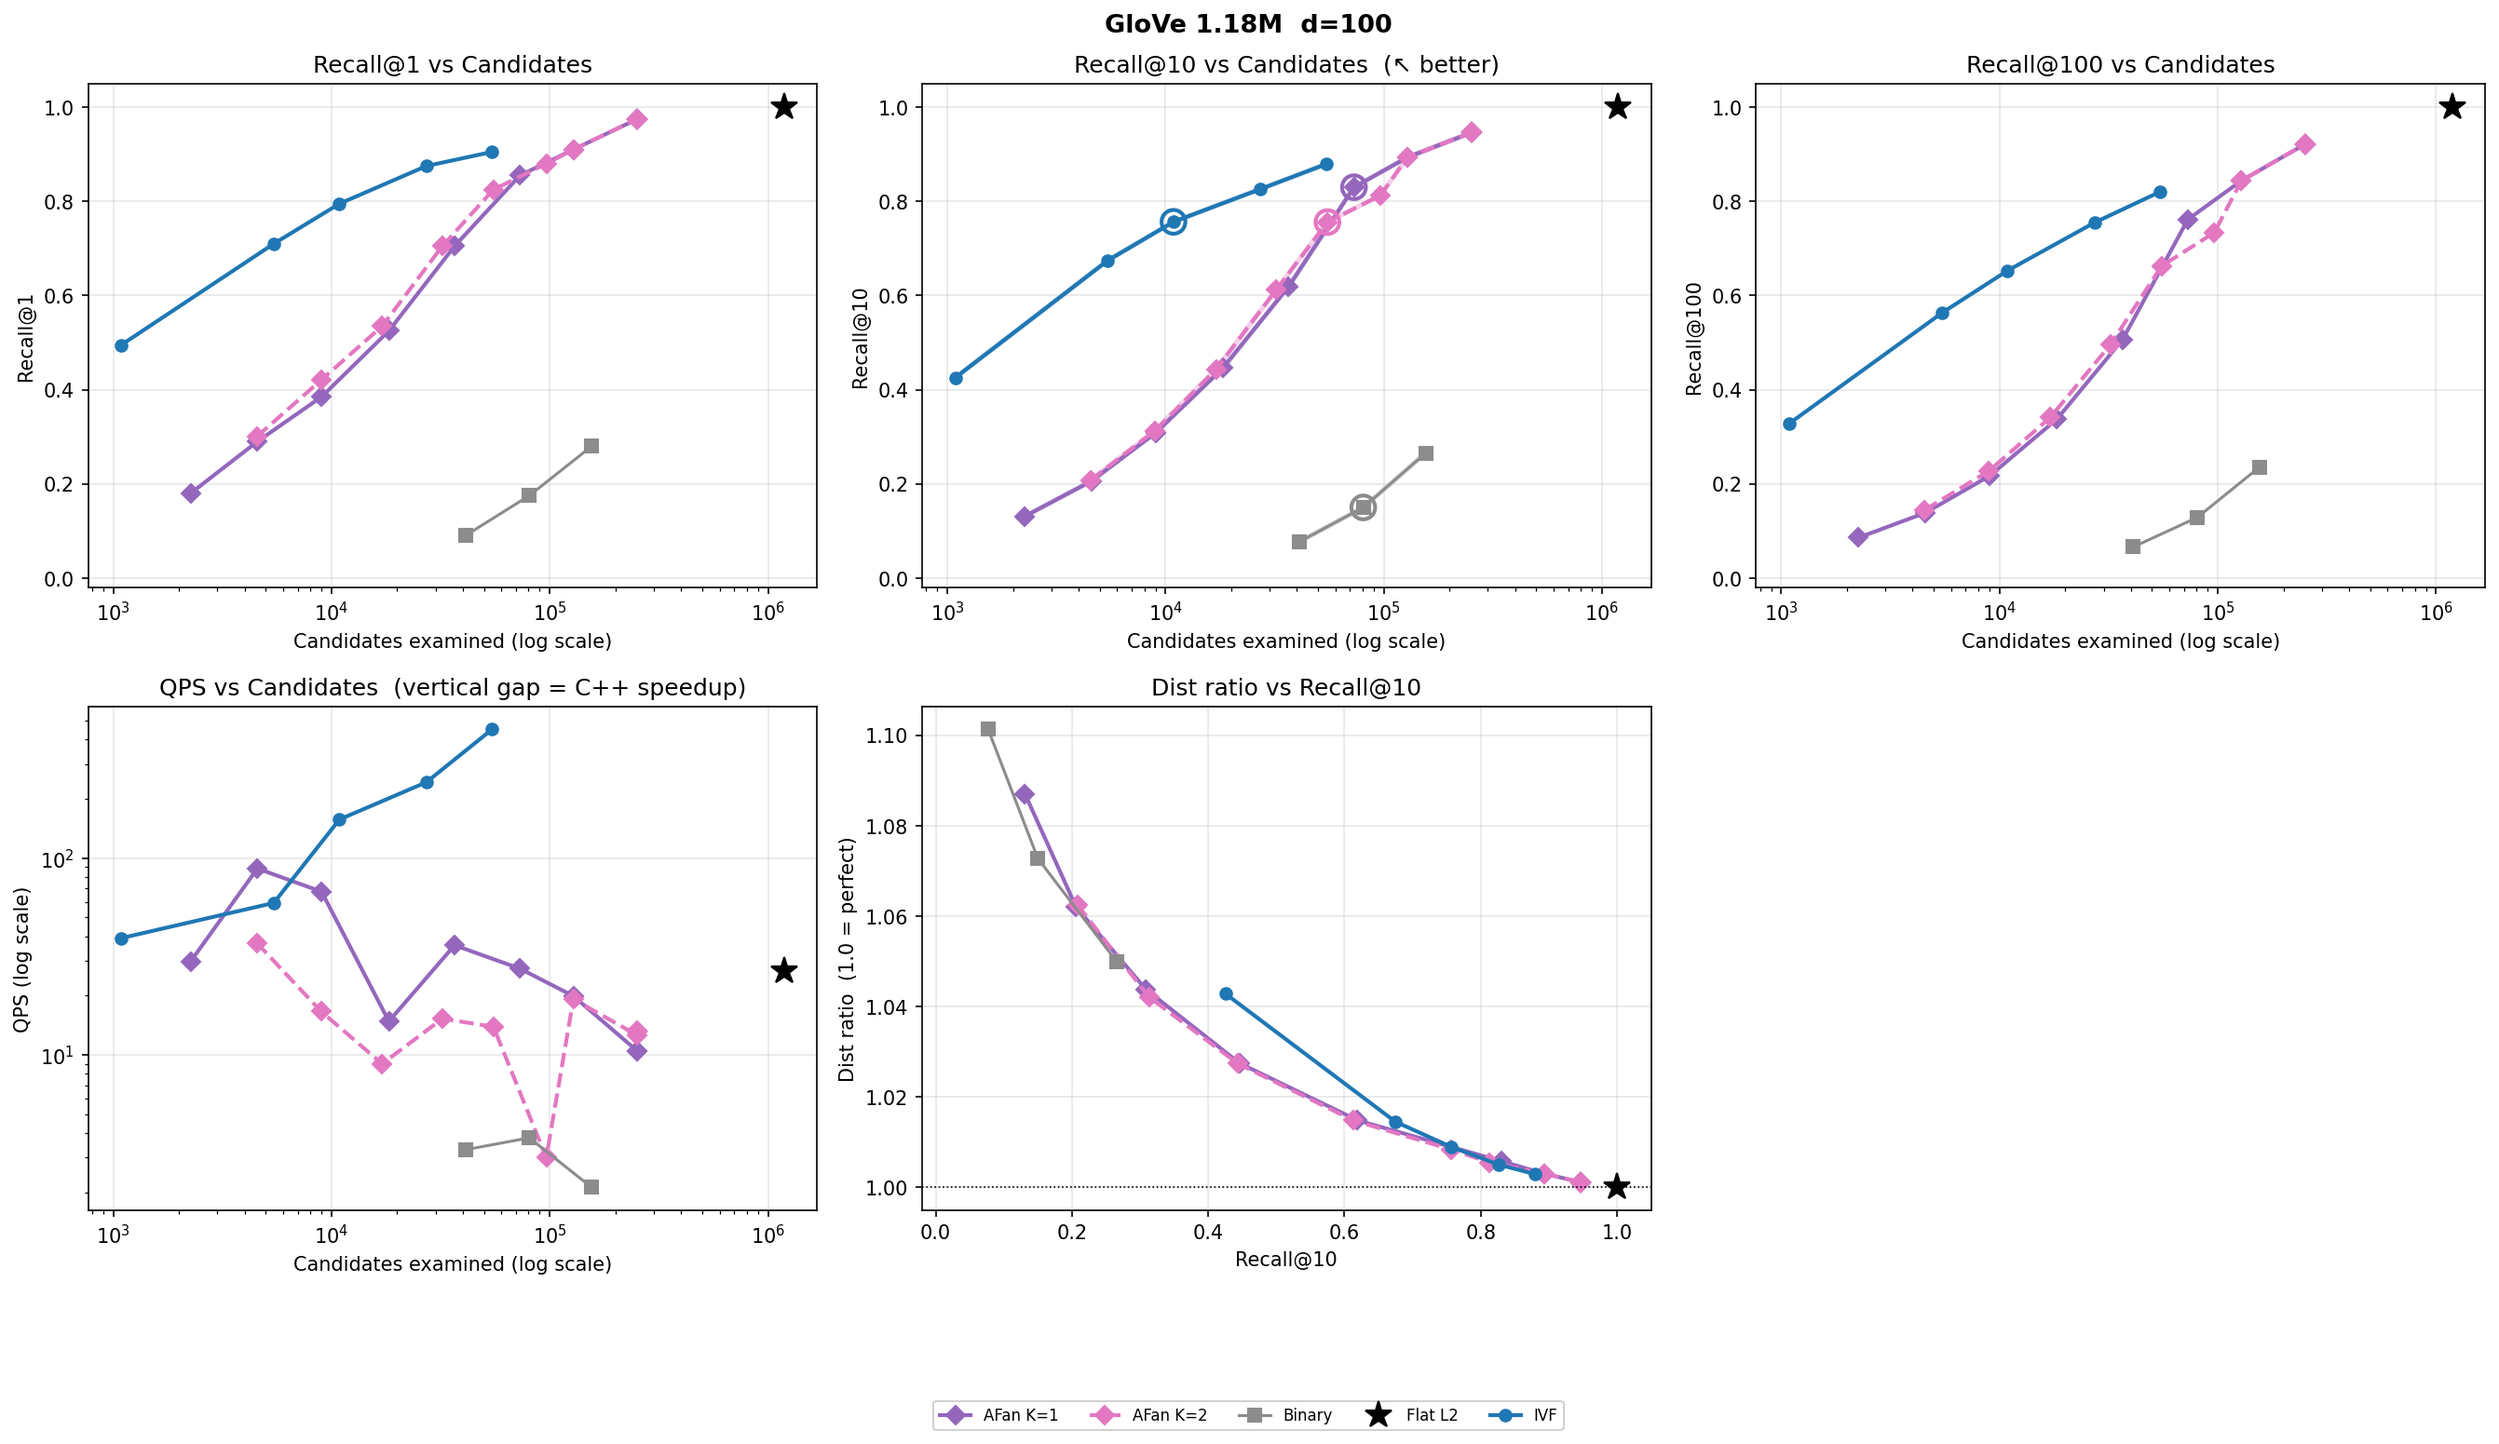
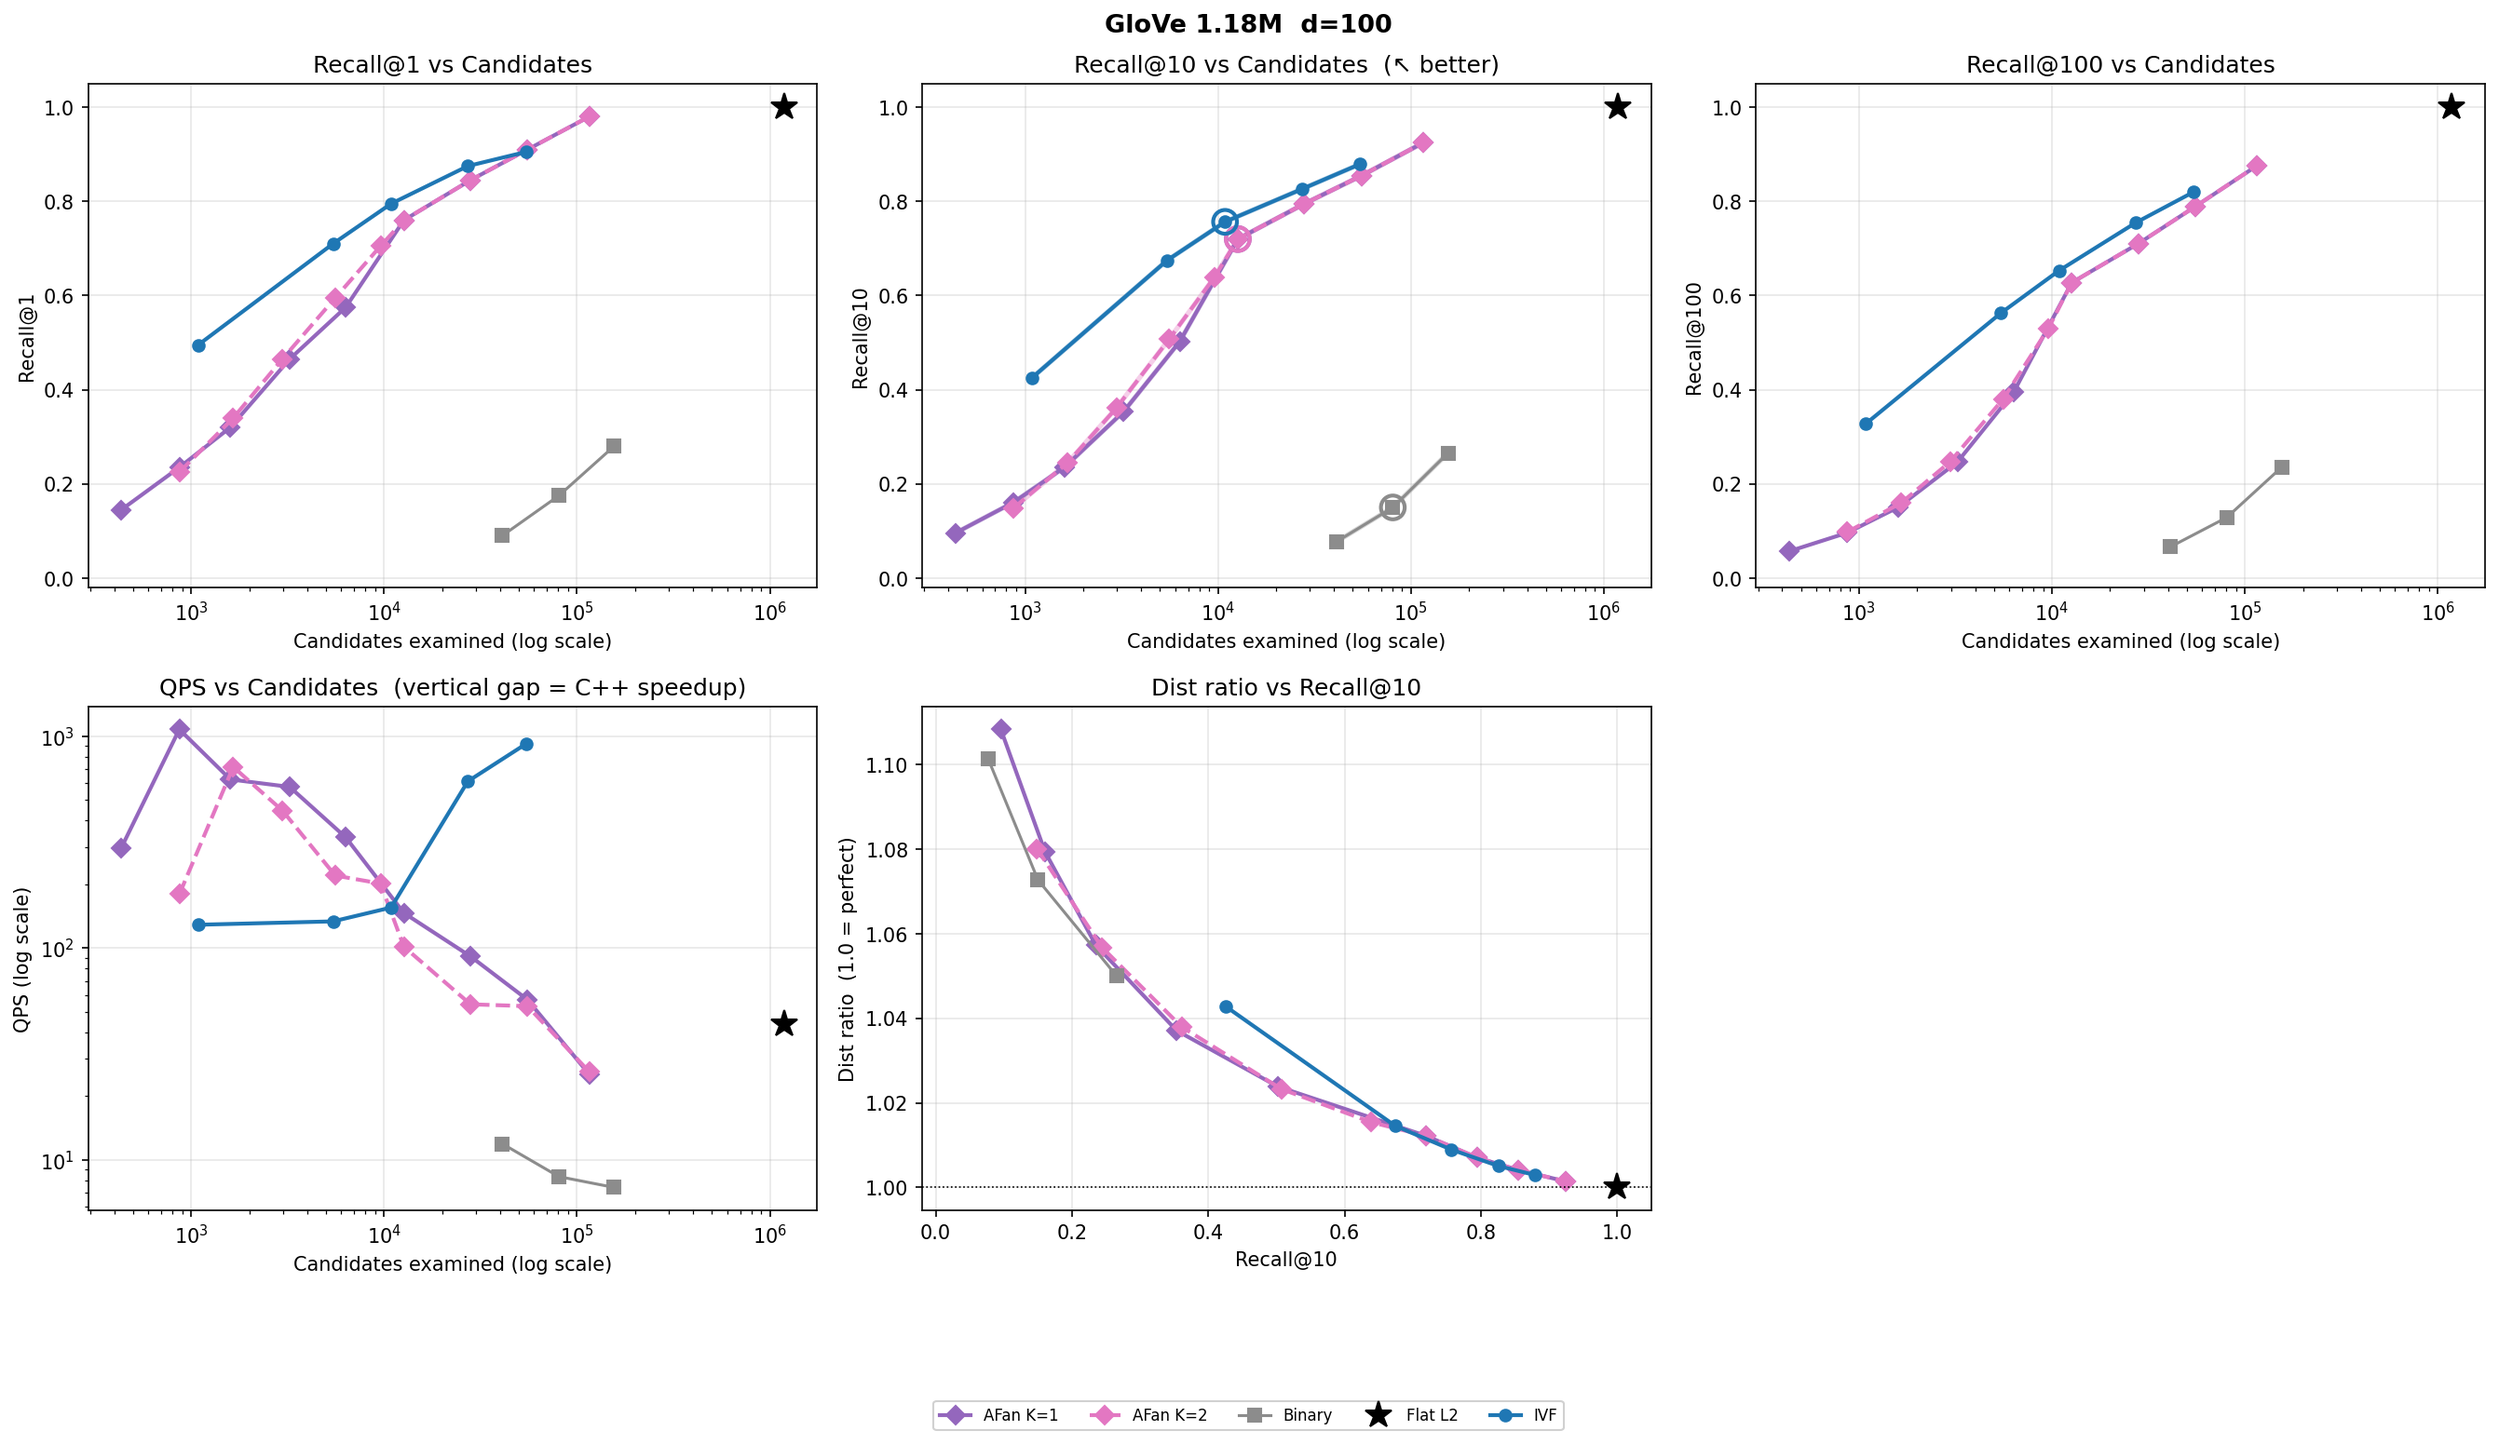
save state commit

diff --git a/ampi/affine_fan.py b/ampi/affine_fan.py
@@ -269,9 +269,93 @@ class AMPIAffineFanIndex:
             return np.zeros(0, dtype=np.int32)
         return np.unique(np.concatenate(parts))
 
-    def query(self, q, k=10, window_size=50, probes=10, fan_probes=2):
-        q     = np.ascontiguousarray(q, dtype=np.float32)
-        cands = self.query_candidates(q, window_size, probes, fan_probes)
+    def query(self, q, k=10, window_size=200, probes=10, fan_probes=2):
+        """Adaptive sorted-projection search.
+
+        Starts with a small window and expands only until the projection lower
+        bound guarantees no unvisited point can improve the current top-k.
+        window_size is a ceiling; most queries stop well before reaching it.
+
+        Stopping condition per cone: there exists an axis l whose window
+        boundary projection gap >= sqrt(kth_sq). Since L2(x,q) >= |proj_l(x-q)|
+        for any unit vector l, those unvisited points cannot enter the top-k.
+        """
+        q = np.ascontiguousarray(q, dtype=np.float32)
+
+        # Collect cone contexts once so cluster/cone selection is not repeated
+        # on every window expansion.
+        cone_ctxs = []   # list of (cone_dict, q_proj_float32)
+        fallback_parts = []
+
+        for c in map(int, self._best_clusters(q, probes)):
+            cones = self.cluster_cones[c]
+            gi    = self.cluster_global[c]
+            if not len(gi):
+                continue
+            if cones is None or fan_probes >= self.F:
+                fallback_parts.append(gi)
+                continue
+            centroid   = self.centroids[c]
+            q_centered = q - centroid
+            q_proj     = np.ascontiguousarray(
+                (q_centered @ self.axes.T).astype(np.float32)
+            )
+            for f in map(int, self._best_fan_cones(q_centered, fan_probes)):
+                if f < len(cones) and cones[f] is not None:
+                    cone_ctxs.append((cones[f], q_proj))
+
+        w = max(k, 8)
+        cands = np.zeros(0, dtype=np.int32)
+
+        while True:
+            parts = list(fallback_parts)
+            for cone, q_proj in cone_ctxs:
+                if cone['n'] <= 2 * w:
+                    parts.append(cone['global_idx'])
+                else:
+                    local = jit_union_query(
+                        cone['sorted_idxs'], cone['sorted_projs'], q_proj, w,
+                    )
+                    parts.append(cone['global_idx'][local])
+
+            cands = np.unique(np.concatenate(parts)) if parts else np.zeros(0, dtype=np.int32)
+
+            if w >= window_size or len(cands) < k:
+                break
+
+            dists    = l2_distances(self.data, q, cands)
+            kth_sq   = float(np.partition(dists, k - 1)[k - 1])
+            kth_proj = np.sqrt(max(0.0, kth_sq))
+
+            # A cone is covered when at least one axis l has both sides of its
+            # window boundary further than kth_proj in projection space.
+            # Any unvisited point on that axis has L2 >= its projection gap,
+            # so it cannot improve the top-k.
+            all_covered = True
+            for cone, q_proj in cone_ctxs:
+                if cone['n'] <= 2 * w:
+                    continue  # already exhausted
+                n_f     = cone['n']
+                covered = False
+                for l in range(self.F):
+                    sp  = cone['sorted_projs'][l]
+                    pos = int(np.searchsorted(sp, q_proj[l]))
+                    lo  = max(0, pos - w)
+                    hi  = min(n_f, pos + w)
+                    gap_right = float(sp[hi] - q_proj[l]) if hi < n_f else np.inf
+                    gap_left  = float(q_proj[l] - sp[lo - 1]) if lo > 0 else np.inf
+                    if min(gap_right, gap_left) >= kth_proj:
+                        covered = True
+                        break
+                if not covered:
+                    all_covered = False
+                    break
+
+            if all_covered:
+                break
+
+            w = min(w * 2, window_size)
+
         if len(cands) < k:
             cands = np.arange(min(k, self.n), dtype=np.int32)
         dists = l2_distances(self.data, q, cands)

diff --git a/benchmark.py b/benchmark.py
@@ -385,10 +385,15 @@ def run(dataset_name, data, queries, gt):
             idxs   = [r[2] if isinstance(r, tuple) else r for r in res]
             padded = [np.pad(ix[:K], (0, max(0, K - len(ix))), constant_values=-1)
                       for ix in idxs]
-            scores.append(recall(gt_sample, padded, K))
+            rec   = recall(gt_sample, padded, K)
+            # Penalise by candidate fraction: large clusters produce many candidates
+            # regardless of window, so pure recall would always favour small alpha.
+            avg_cands = float(np.mean([len(r[2]) for r in res]))
+            cand_frac = avg_cands / n_sample
+            scores.append(rec / (1.0 + cand_frac))
         return float(np.mean(scores))
 
-    ALPHA_LO, ALPHA_HI = 0.10, 2.0
+    ALPHA_LO, ALPHA_HI = 0.50, 2.0
     N_BO_ITER = 12
     x_obs = [ALPHA_LO, (ALPHA_LO + ALPHA_HI) / 2, ALPHA_HI]
     y_obs = [_alpha_score(a) for a in x_obs]
